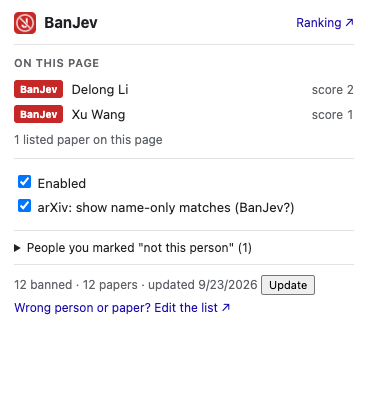
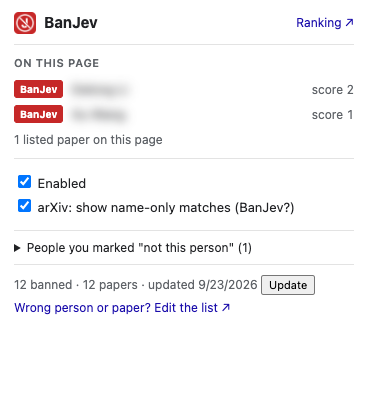
Blur paper titles and author names in screenshots

Changed region(s): [[0.1793, 0.1857, 0.3587, 0.3095]]

diff --git a/README_CN.md b/README_CN.md
@@ -88,6 +88,7 @@ npm run test:e2e    # 端到端测试：用 Puppeteer 把插件加载进 Chrome 
 npm run update-data # 重新生成 data/papers.json 和 data/authors.json
 npm run build-site  # 把排行榜页面组装到 build/site/
 npm run package     # 打包成 banjev.zip
+npm run screenshot  # 重新生成 docs/arxiv.png（标题和作者名已模糊）
 python3 scripts/make-icons.py  # 重新生成图标（需要 Pillow）
 ```
 

diff --git a/README.md b/README.md
@@ -88,6 +88,7 @@ npm run test:e2e    # end-to-end: loads the extension into Chrome for Testing wi
 npm run update-data # regenerate data/papers.json and data/authors.json
 npm run build-site  # assemble the ranking page into build/site/
 npm run package     # build banjev.zip
+npm run screenshot  # regenerate docs/arxiv.png (titles and names blurred)
 python3 scripts/make-icons.py  # regenerate icons (needs Pillow)
 ```
 
